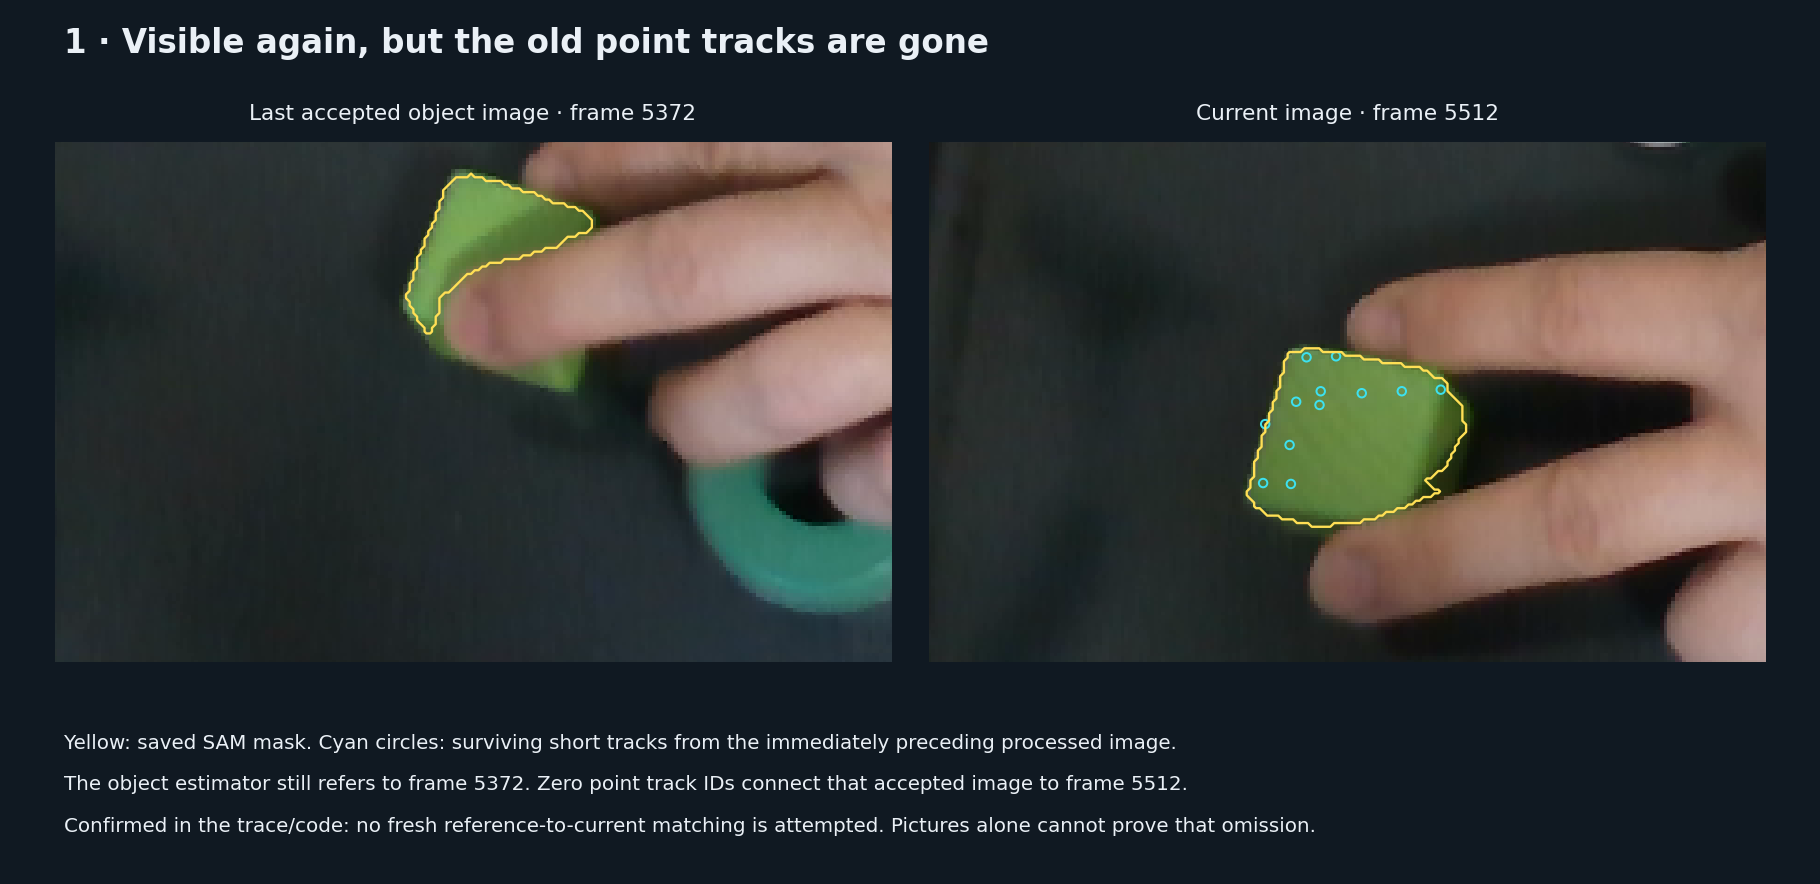
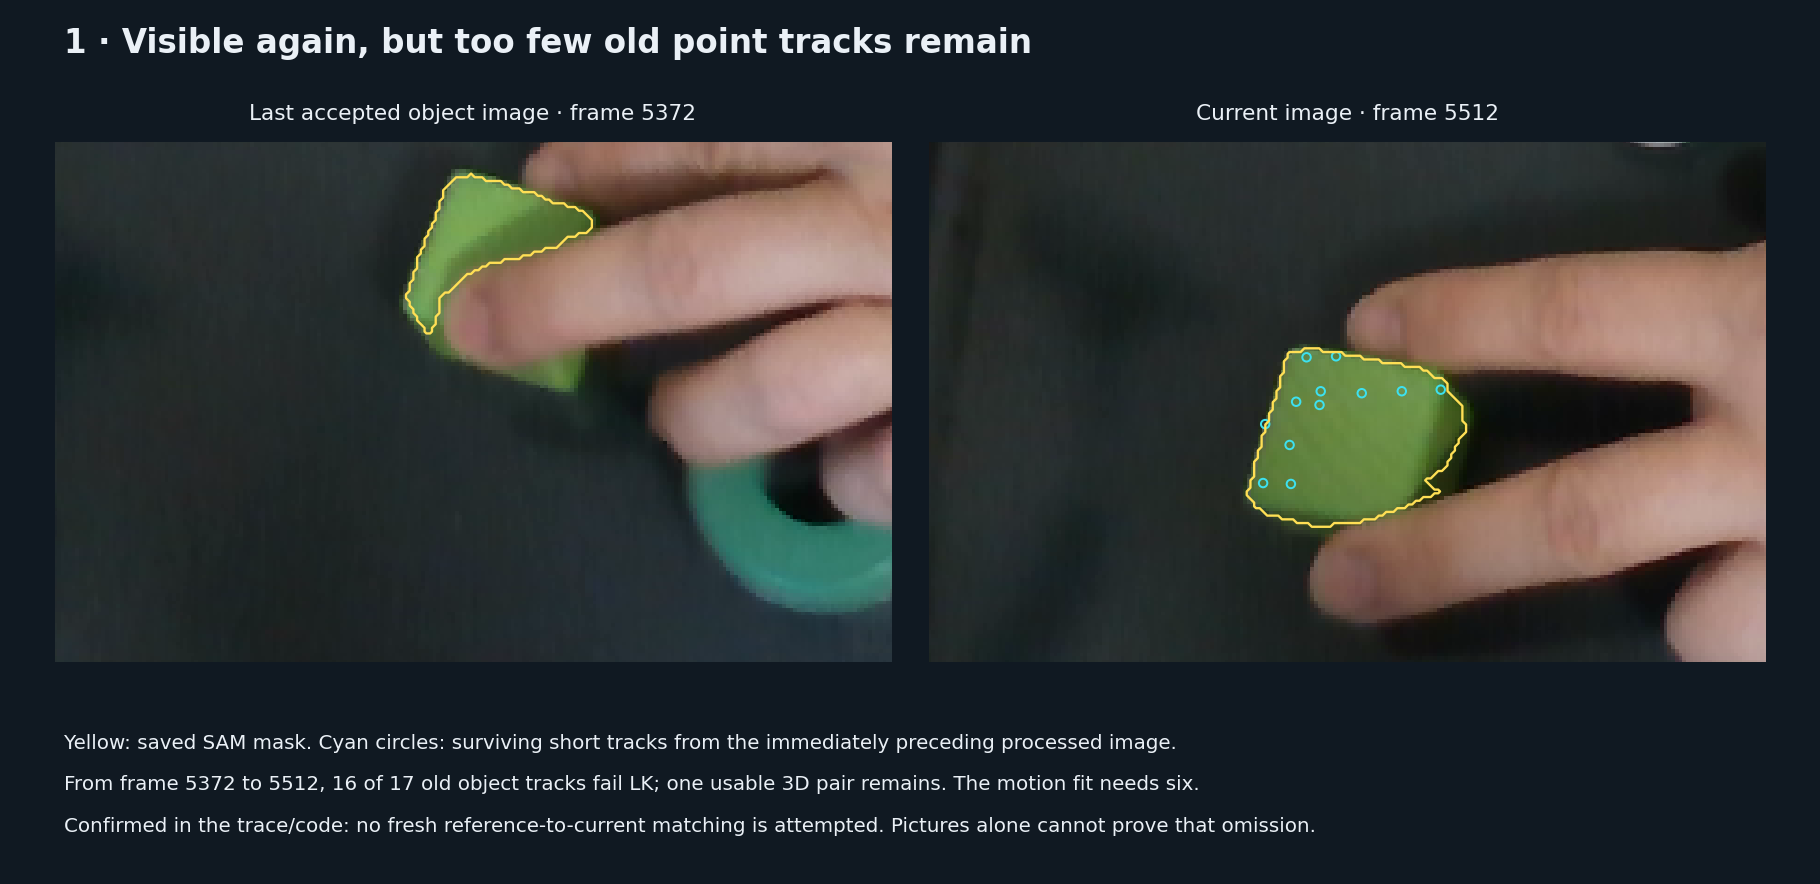
Correct the recorded point-loss diagnosis in recovery panel one
The panel incorrectly inferred zero surviving track IDs from zero validated motion inliers. Replaying shared tracking from frame 5118 shows that 16 of 17 object tracks at frame 5372 fail the one-pixel LK forward/backward check before frame 5512. ID 6 survives and passes the real object pair consumer, leaving one usable pair where rigid-motion fitting requires six.

Record the audited losses and endpoint pair, regenerate the panel caption, and distinguish missing fresh matching from initial LK rejection and from the separate deliberate complete-loss test. The audit establishes the software rejection condition, not the physical cause of each inconsistent match. Runtime behavior is unchanged.

Verified the 17 source tracks, 16 threshold failures, one usable pair, and six-pair requirement; rendered and inspected the corrected figure. Pre-commit checks pass.

Changed region(s): [[0.1538, 0.8552, 0.6462, 0.9163], [0.2462, 0.0305, 0.5846, 0.0611], [0.0308, 0.8552, 0.1231, 0.9163]]

diff --git a/docs/proofs/flash-recovery-20261119/index.html b/docs/proofs/flash-recovery-20261119/index.html
@@ -19,14 +19,14 @@ table{border-collapse:collapse;width:100%;margin:12px 0;font-size:14px}th,td{pad
 <p><a href="README.md#current-regression-cases">Current regression cases and results (Markdown)</a> · <a href="../../../src/lerobot/policies/flash/docs/glossary.md">Tracking glossary — definitions and code citations (Markdown)</a></p>
 <p class="note">The five panels show interacting failure mechanisms, not five independent root causes. <a href="README.md#how-the-five-panels-relate">Relationship between the failures</a> · <a href="README.md#why-the-pairs-are-rejected-and-sparse">Endpoint filter and sampling audit</a>.</p>
 <nav aria-label="Choose a failure explanation">
-<button aria-pressed="true" data-file="01-lost-identities.png">1 · Lost point tracks</button>
+<button aria-pressed="true" data-file="01-lost-identities.png">1 · Too few old point tracks</button>
 <button aria-pressed="false" data-file="02-local-alignment.png">2 · Local surface fitting</button>
 <button aria-pressed="false" data-file="03-predicted-versus-measured.png">3 · Motion group and pose prediction</button>
 <button aria-pressed="false" data-file="04-filter-rejection.png">4 · Kalman pose update</button>
 <button aria-pressed="false" data-file="05-depth-pairs.png">5 · Usable 3D pairs</button>
 </nav>
-<p id="explanation" aria-live="polite">A <a href="../../../src/lerobot/policies/flash/docs/glossary.md#point-track-id">point track ID</a> labels one tracked image point. Here the object is visible, but no old IDs connect the last accepted image to the current image.</p>
-<figure><a id="full" href="01-lost-identities.png" target="_blank"><img id="evidence" src="01-lost-identities.png" alt="Lost point tracks: last accepted image and visible current object with new short tracks"></a>
+<p id="explanation" aria-live="polite">A <a href="../../../src/lerobot/policies/flash/docs/glossary.md#point-track-id">point track ID</a> labels one tracked image point. The object is visible. Replaying frames 5372–5512 shows 16 of 17 old object tracks fail LK; one usable 3D pair remains, below the six required for motion fitting. The shared path does not attempt fresh matching between these images.</p>
+<figure><a id="full" href="01-lost-identities.png" target="_blank"><img id="evidence" src="01-lost-identities.png" alt="Too few old point tracks: last accepted image and visible current object with new short tracks"></a>
 <figcaption>Click the image to open it at full size. These are actual camera frames with replay-derived overlays. Screenshots use the original full history; compact tests initialize freshly.</figcaption></figure>
 <details open><summary>Original experiments before the production translation fix</summary>
 <table><thead><tr><th>Intervention</th><th>Sparse cube / pointer</th><th>After all old point tracks are lost</th><th>Ring rejection</th></tr></thead><tbody>
@@ -44,7 +44,7 @@ table{border-collapse:collapse;width:100%;margin:12px 0;font-size:14px}th,td{pad
 </main>
 <script>
 const descriptions={
-'01-lost-identities.png':'Lost point tracks: last accepted image and visible current object with new short tracks',
+'01-lost-identities.png':'Too few old point tracks: last accepted image and visible current object with new short tracks',
 '02-local-alignment.png':'Same cube frame: stale starting pose misses the object; fitting from another starting pose succeeds',
 '03-predicted-versus-measured.png':'Orange crosses show fifteen group predictions; colored circles show three current LK and depth measurements',
 '04-filter-rejection.png':'Ring: geometry-compatible fit and rejected Kalman-fused pose on the same camera image',
@@ -52,7 +52,7 @@ const descriptions={
 const glossary='../../../src/lerobot/policies/flash/docs/glossary.md';
 const term=(id,label)=>`<a href="${glossary}#${id}">${label}</a>`;
 const explanations={
-'01-lost-identities.png':`A ${term('point-track-id','point track ID')} labels one tracked image point. Here the object is visible, but no old IDs connect the ${term('accepted-observation--reference-image','last accepted image')} to the current image.`,
+'01-lost-identities.png':`A ${term('point-track-id','point track ID')} labels one tracked image point. From the ${term('accepted-observation--reference-image','last accepted image')} at frame 5372 to frame 5512, 16 of 17 old object tracks fail LK. One usable 3D pair remains; the motion fit needs six. New short tracks do not reconnect to the old image, and no fresh reference-to-current matching is attempted. The earlier zero-surviving-IDs caption was incorrect: zero validated motion inliers did not mean zero surviving tracks. <a href="point-reacquisition-audit.json">Replayed track audit</a>.`,
 '02-local-alignment.png':`${term('local-surface-fitting','Surface fitting')} moves and rotates stored 3D points to match current depth. The original implementation omitted initialization from the current surface centre; that defect is now corrected. A controlled replay aligned the centres by changing only the initial translation (43.4 mm), with 0° change to the starting rotation: the same fit and checks accepted the result. The picture below compares the original starting estimate and recovered fit. <a href="center-initialization-ablation.json">Controlled trial evidence</a>.`,
 '03-predicted-versus-measured.png':`A ${term('motion-group','motion group')} is a collection of 3D points assumed to move together rigidly. This group has 425 accepted environment measurements. Of its 15 remembered object points, 12 had already failed LK matching. The other 3 still match and have depth, but disagree with the group motion. Orange crosses below are the 15 group predictions; colored circles are the 3 current measurements. Dashed arrows connect the same ID, not successive frames. <a href="03-lk-survivors.png">See the three LK tracks in consecutive processed images</a>. In the original implementation, the object association still produced a pose suggestion from that group. The depth check now removes these contradicted memberships and clears that unsupported suggestion. <a href="README.md#depth-rejection-of-carried-group-points">Measured correction</a>. <a href="README.md#why-the-object-remains-attached-to-the-background-group">Mechanism and code citations</a>.`,
 '04-filter-rejection.png':`The ${term('kalman-pose-update','Kalman pose update')} combines the old prediction with the new surface fit. The resulting pose fails a depth check even though the new fit passed.`,

diff --git a/benchmarks/flash_recovery_figures.py b/benchmarks/flash_recovery_figures.py
@@ -85,10 +85,10 @@ def main(recording, evidence, output):
         ax[1].scatter(*uv.T, s=22, facecolors="none", edgecolors=CYAN, lw=1.1)
 
     figure(
-        "1 · Visible again, but the old point tracks are gone",
+        "1 · Visible again, but too few old point tracks remain",
         [
             "Yellow: saved SAM mask. Cyan circles: surviving short tracks from the immediately preceding processed image.",
-            "The object estimator still refers to frame 5372. Zero point track IDs connect that accepted image to frame 5512.",
+            "From frame 5372 to 5512, 16 of 17 old object tracks fail LK; one usable 3D pair remains. The motion fit needs six.",
             "Confirmed in the trace/code: no fresh reference-to-current matching is attempted. Pictures alone cannot prove that omission.",
         ],
         "01-lost-identities.png",

diff --git a/docs/proofs/flash-recovery-20261119/README.md b/docs/proofs/flash-recovery-20261119/README.md
@@ -57,7 +57,7 @@ The preview reads each Markdown file on request, renders headings, tables and li
 
 | Panel                         | Mechanism                                                                                                                                 | Relationship                                                                                                              |
 | ----------------------------- | ----------------------------------------------------------------------------------------------------------------------------------------- | ------------------------------------------------------------------------------------------------------------------------- |
-| 1: Lost point tracks          | No surviving IDs connect the accepted image to the current one; the shared path does not attempt fresh matching between those images      | One way to lose an image-derived motion estimate. Loss of tracks itself must be tolerated.                                |
+| 1: Too few old point tracks   | Only one usable pair connects frames 5372 and 5512; six are required, and the shared path does not attempt fresh matching                 | One way to lose an image-derived motion estimate. Loss of tracks itself must be tolerated.                                |
 | 5: Too few usable pairs       | Some IDs survive, but sparse queries and object-surface filters leave fewer than six 3D pairs                                             | Another way to lose the motion estimate; different immediate cause from panel 1.                                          |
 | 3: Stale group pose           | Old object membership survives missing or contradictory measurements; measured background motion still supplies an object-pose suggestion | Can supply the wrong fallback when image motion is unavailable.                                                           |
 | 2: Translation initialization | The original fitter starts from that suggestion without comparing translation against current object geometry                             | Turns a bad starting position into a failed local fit. The committed centre-translation comparison addresses this defect. |
@@ -68,6 +68,27 @@ so the stale group pose becomes the fit's starting estimate. The original fitter
 fitting from the previous pose succeeds in the recorded comparison. Panel 2 separately isolates
 missing centre-translation initialization on cube frame 2741. Thus these are interacting causes,
 not proof that every panel is a separate bug or that fixing translation fixes all five mechanisms.
+
+## Why panel 1 loses image-derived motion
+
+**Correction to the original panel:** zero validated image-motion inliers did not
+mean zero surviving point track IDs. A [shared-tracker replay](point-reacquisition-audit.json)
+from frame 5118 finds 17 object tracks at frame 5372. Sixteen fail LK before
+frame 5512; all sixteen exceed the configured one-pixel forward/backward error
+limit in the resized matching image. ID 6 survives and passes the object/depth
+filters, giving **one usable 3D pair**, below the six required for rigid-motion
+fitting. Frame 5512 has 29 current object tracks, but the new IDs cannot connect
+to the old image at frame 5372. This audit identifies the rejection condition,
+not the physical cause of each inconsistent LK match.
+
+The missing recovery operation is fresh matching between the last accepted image
+and the current image. `SharedFrameTracker.pairs` only joins surviving IDs; it
+does not run the image matcher again when too few survive. Panel 1 therefore
+shows match attrition plus missing reacquisition, while panel 5 shows additional
+loss of usable pairs through object-surface filtering. Both can leave the motion
+fit without enough pairs. Neither is the incorrect 3D membership retention in
+panel 3. The separate complete-loss regression deliberately removes every old
+track and remains distinct from this recorded panel.
 
 ## Why the pairs are rejected and sparse
 
